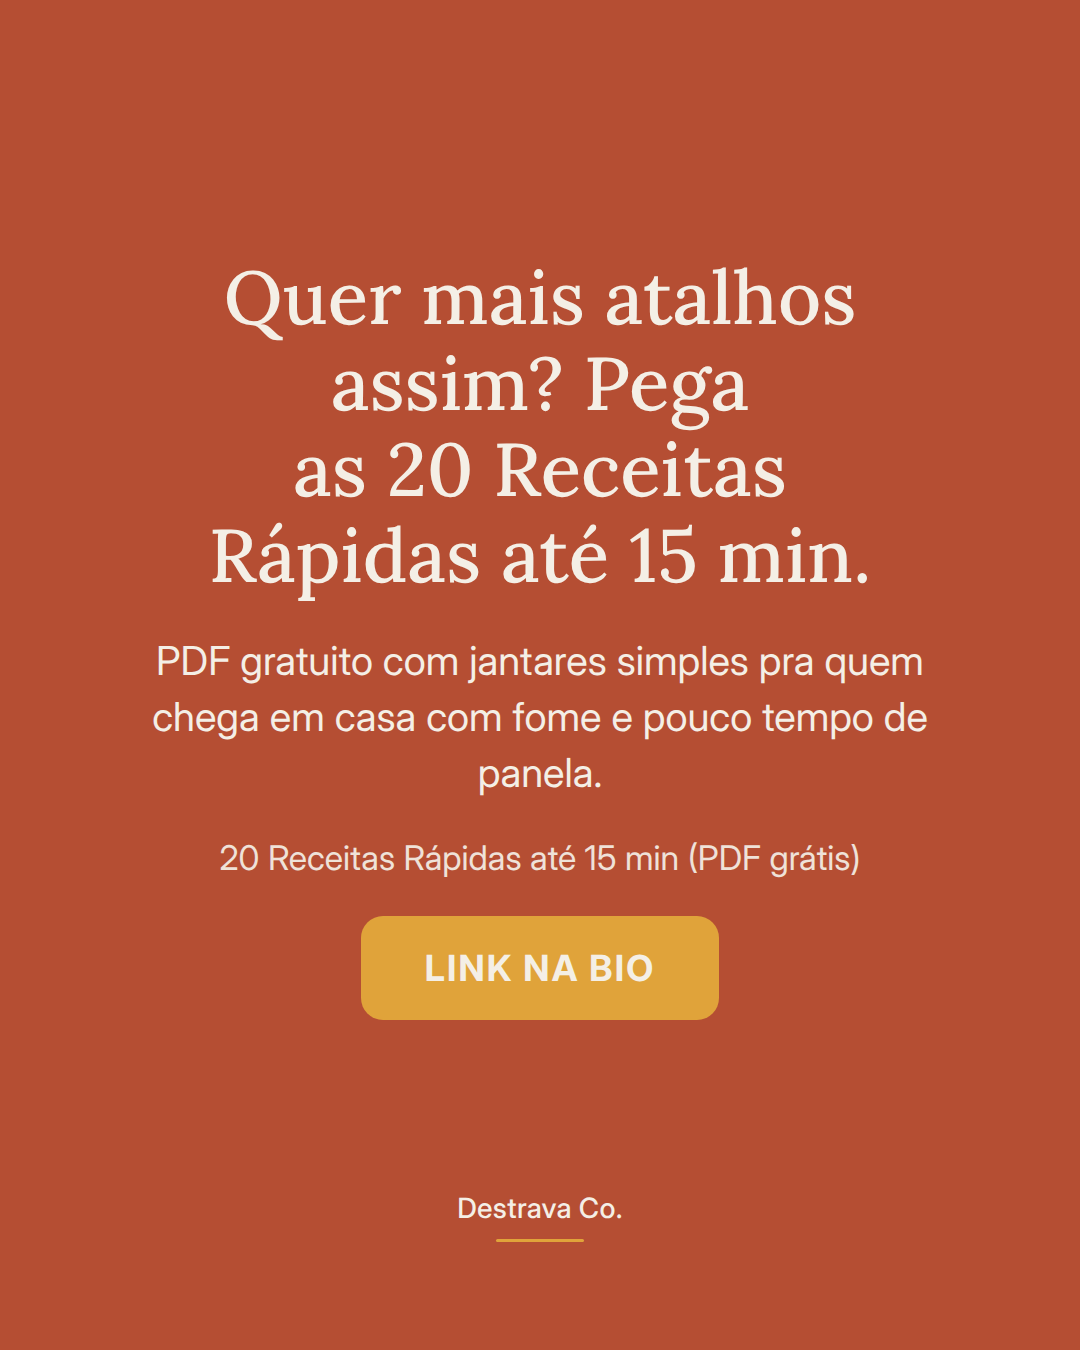
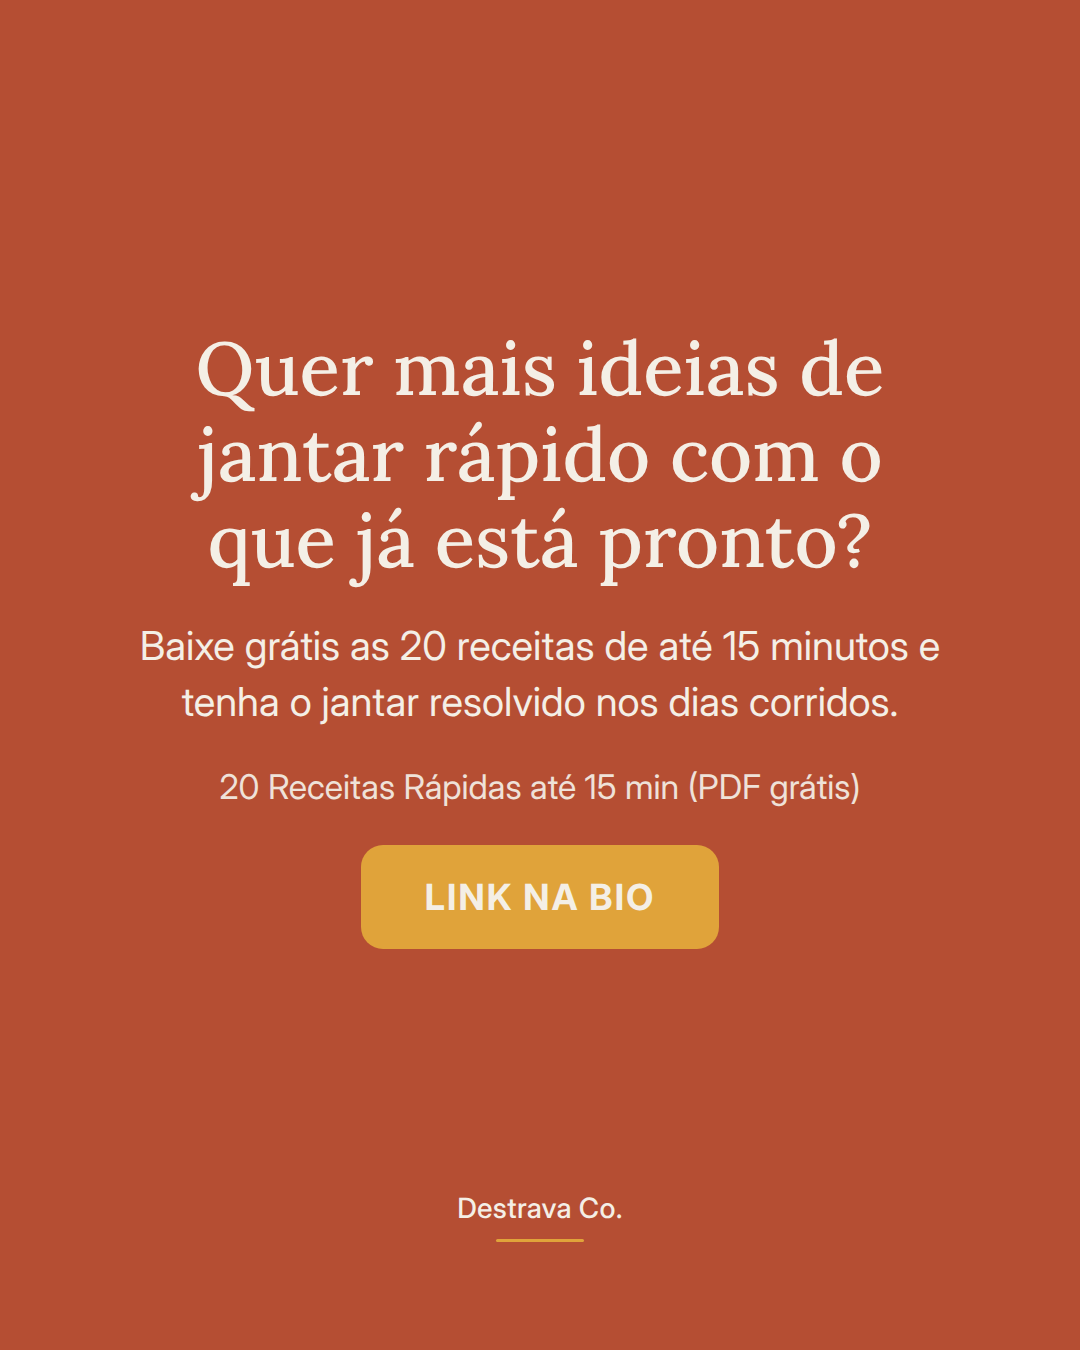
content: peças Instagram 2026_10_06

Changed region(s): [[0.1222, 0.1867, 0.8861, 0.5911], [0.2139, 0.6222, 0.7944, 0.7778]]

diff --git a/public/content/2026_10_06/index.html b/public/content/2026_10_06/index.html
@@ -19,25 +19,24 @@
 </head>
 <body>
 <h1>Cozinha · capa B (wash2)</h1>
-<div class="meta">2026-10-06 · gerado em 2026-10-06T10:02:59 · sticker sugerido nos Stories: quiz</div>
+<div class="meta">2026-10-06 · gerado em 2026-10-06T12:34:35 · sticker sugerido nos Stories: quiz</div>
 <h2>Carrossel</h2>
-<div class="strip"><img src="2026_10_06_-_Carrossel_Cozinha_01.png" alt="Fundo wash2 da linha Cozinha com foto de cubos de refogado congelado e o titulo em campo sobre a imagem." title="2026_10_06_-_Carrossel_Cozinha_01.png"><img src="2026_10_06_-_Carrossel_Cozinha_02.png" alt="Fundo wash1 bem claro com titulo em campo profundo explicando como fazer a base de refogado de uma vez." title="2026_10_06_-_Carrossel_Cozinha_02.png"><img src="2026_10_06_-_Carrossel_Cozinha_03.png" alt="Fundo wash1 bem claro com titulo em campo profundo e lista de tres passos para congelar a base em cubinhos." title="2026_10_06_-_Carrossel_Cozinha_03.png"><img src="2026_10_06_-_Carrossel_Cozinha_04.png" alt="Fundo wash1 bem claro com titulo em campo profundo mostrando como usar os cubos direto do congelador." title="2026_10_06_-_Carrossel_Cozinha_04.png"><img src="2026_10_06_-_Carrossel_Cozinha_05.png" alt="Fundo campo profundo com texto creme convidando a baixar o PDF e botao no tom de acento." title="2026_10_06_-_Carrossel_Cozinha_05.png"></div>
+<div class="strip"><img src="2026_10_06_-_Carrossel_Cozinha_01.png" alt="Foto de uma frigideira com arroz dourado e ovos sobre fundo wash2 da linha Cozinha, com o título em campo dizendo que a sobra de ontem não precisa ser repetida." title="2026_10_06_-_Carrossel_Cozinha_01.png"><img src="2026_10_06_-_Carrossel_Cozinha_02.png" alt="Lâmina de fundo wash1 bem claro com título no campo profundo explicando que mudar o formato da sobra cansa menos que repetir o prato." title="2026_10_06_-_Carrossel_Cozinha_02.png"><img src="2026_10_06_-_Carrossel_Cozinha_03.png" alt="Lâmina de fundo wash1 bem claro com título no campo profundo e lista de três sobras transformadas em pratos novos." title="2026_10_06_-_Carrossel_Cozinha_03.png"><img src="2026_10_06_-_Carrossel_Cozinha_04.png" alt="Lâmina de fundo wash1 bem claro com título no campo profundo indicando dourar em panela quente e finalizar com algo fresco." title="2026_10_06_-_Carrossel_Cozinha_04.png"><img src="2026_10_06_-_Carrossel_Cozinha_05.png" alt="Lâmina de fundo campo profundo com texto creme convidando a baixar o PDF de 20 receitas rápidas e botão no tom de acento." title="2026_10_06_-_Carrossel_Cozinha_05.png"></div>
 <h2>Stories</h2>
-<div class="strip"><img class="story" src="2026_10_06_-_Stories_Cozinha_01.png" alt="Fundo wash2 da linha com kicker e titulo em campo sobre os cubinhos de refogado congelado." title="2026_10_06_-_Stories_Cozinha_01.png"><img class="story" src="2026_10_06_-_Stories_Cozinha_02.png" alt="Stories em fundo terracota com convite ao e-book gratuito de 20 receitas rápidas e o endereço da página em destaque no chip mostarda." title="2026_10_06_-_Stories_Cozinha_02.png"></div>
+<div class="strip"><img class="story" src="2026_10_06_-_Stories_Cozinha_01.png" alt="Story de fundo wash2 da linha com título em campo sobre transformar a sobra de ontem e convite para deslizar até o feed." title="2026_10_06_-_Stories_Cozinha_01.png"><img class="story" src="2026_10_06_-_Stories_Cozinha_02.png" alt="Stories em fundo terracota com convite ao e-book gratuito de 20 receitas rápidas e o endereço da página em destaque no chip mostarda." title="2026_10_06_-_Stories_Cozinha_02.png"></div>
 <div class="meta">1º · stories post do dia · <a href="2026_10_06_-_Stories_Cozinha_01.png" download="2026_10_06_-_Stories_Cozinha_01.png">⬇ baixar</a> · sticker de link → post do dia (permalink em publicado.json depois de publicar) · sticker extra sugerido: quiz</div><div class="meta">2º · stories oferta · <a href="2026_10_06_-_Stories_Cozinha_02.png" download="2026_10_06_-_Stories_Cozinha_02.png">⬇ baixar</a> · sticker de link → <a href="https://lp.destravaco.com.br/receitas-15min">https://lp.destravaco.com.br/receitas-15min</a></div>
 <div class="meta">Stories não vão pela API: baixe e poste no app colando o sticker de link.</div>
 <h2>Legenda</h2>
-<pre>Refogado pronto no congelador é o atalho mais barato que existe pra quem cozinha com pressa.
-Cebola, alho e tomate refogados uma vez só viram base de sabor pra semana inteira.
+<pre>Sobra de arroz não precisa virar o mesmo prato de novo: muda o formato e ela vira outro jantar.
 
-Funciona assim: você refoga uma panela cheia, deixa esfriar, divide em forma de gelo e leva ao congelador. No dia seguinte, desenforma os cubinhos e guarda num pote fechado.
+Comida de ontem cansa quando volta igual ao prato. O jeito mais rápido de resolver é mudar a textura, não o ingrediente. Arroz solto vira bolinho na frigideira com ovo. Frango desfiado vira recheio de panqueca ou wrap. Legume cozido vira sopa batida com alho e um caldo.
 
-Na hora do jantar, a panela esquenta, um cubo vai direto do congelador pra ela e o arroz, o molho de tomate ou os legumes já começam temperados. Sem picar nada, sem chorar em cima da tábua num dia cansado.
+O segredo está no calor direto. Panela bem quente, ingrediente sem excesso de líquido e paciência de não mexer o tempo todo é o que dá cor e sabor de comida recém feita.
 
-Se a semana apertar, dois cubos e uma lata de grão de bico já são um prato quente.
+No fim, um toque fresco fecha: limão, cheiro verde ou pimenta por cima.
 
-Salva esse post pra fazer no próximo fim de semana e manda pra alguém que vive dizendo que não tem tempo de cozinhar. Se quiser mais ideias de jantar rápido, o PDF com 20 receitas de até 15 minutos é gratuito.
+Salva pra lembrar na próxima sobra e manda pra quem abre a geladeira e acha que não tem nada. Se quiser o jantar ainda mais fácil, pega o PDF gratuito com 20 receitas de até 15 minutos pelo botão aqui do perfil.
 
-<span class="tags">#cozinhapratica #receitasrapidas #praticidadenacozinha #comidacaseira #jantarpratico</span></pre>
+<span class="tags">#receitasrapidas #comidacaseira #cozinhapratica #jantarpratico #receitasfaceis</span></pre>
 </body>
 </html>
